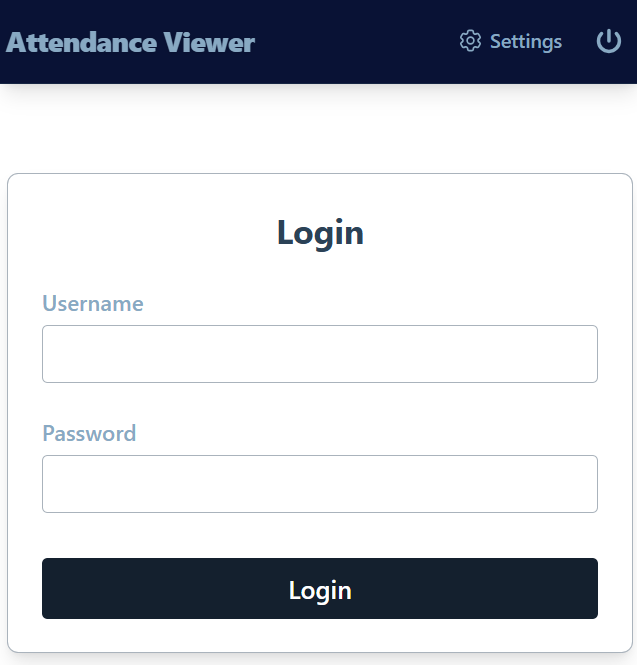
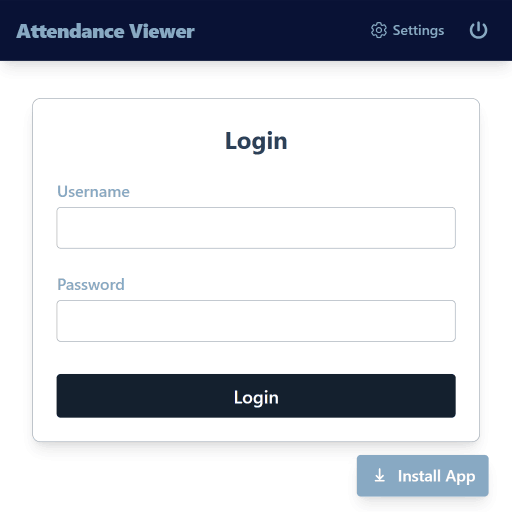
made some fixes

diff --git a/src/app/layoutClient.tsx b/src/app/layoutClient.tsx
@@ -15,6 +15,12 @@ const geistMono = Geist_Mono({
     subsets: ["latin"],
 });
 
+declare global {
+    interface Window {
+        deferredPWAInstallPrompt?: any;
+    }
+}
+
 export default function RootLayoutClient({
     children,
 }: Readonly<{
@@ -43,36 +49,65 @@ export default function RootLayoutClient({
         } else {
             console.warn("[PWA] Service Worker not supported in this browser.");
         }
-        const handler = (e: any) => {
-            console.log("[PWA] beforeinstallprompt event fired", e);
-            e.preventDefault();
-            setDeferredPrompt(e);
+
+        // Check if the event was already captured (either before or after component mounted)
+        if (window.deferredPWAInstallPrompt) {
+            console.log('[PWA] Found existing install prompt on mount');
+            setDeferredPrompt(window.deferredPWAInstallPrompt);
+            setShowInstall(true);
+        }
+
+        // Listen for the custom pwaInstallReady event that our early script fires
+        const handleInstallReady = () => {
+            console.log('[PWA] Install ready event received');
+            setDeferredPrompt(window.deferredPWAInstallPrompt);
             setShowInstall(true);
         };
-        window.addEventListener("beforeinstallprompt", handler);
-        window.addEventListener("appinstalled", () => {
+
+        window.addEventListener('pwaInstallReady', handleInstallReady);
+
+        // Listen for appinstalled event
+        const appInstalledHandler = () => {
             console.log("[PWA] App was installed");
-        });
+            setShowInstall(false);
+        };
+
+        window.addEventListener("appinstalled", appInstalledHandler);
+
         return () => {
-            window.removeEventListener("beforeinstallprompt", handler);
+            window.removeEventListener('pwaInstallReady', handleInstallReady);
+            window.removeEventListener("appinstalled", appInstalledHandler);
         };
     }, []);
 
     const handleInstallClick = async () => {
-        if (deferredPrompt) {
-            deferredPrompt.prompt();
-            const { outcome } = await deferredPrompt.userChoice;
+        const promptEvent = deferredPrompt || window.deferredPWAInstallPrompt;
+        if (promptEvent) {
+            promptEvent.prompt();
+            const { outcome } = await promptEvent.userChoice;
             if (outcome === "accepted") {
                 setShowInstall(false);
             }
             setDeferredPrompt(null);
+            window.deferredPWAInstallPrompt = null;
         }
-    };
-
-    return (
+    }; return (
         <html lang="en">
             <head>
                 <link rel="manifest" href="/manifest.webmanifest" />
+                <script
+                    dangerouslySetInnerHTML={{
+                        __html: `
+                            window.deferredPWAInstallPrompt = null;
+                            window.addEventListener('beforeinstallprompt', function(e) {
+                                console.log('[PWA] beforeinstallprompt event captured by early script');
+                                e.preventDefault();
+                                window.deferredPWAInstallPrompt = e;
+                                window.dispatchEvent(new Event('pwaInstallReady'));
+                            });
+                        `
+                    }}
+                />
             </head>
             <body
                 className={`${geistSans.variable} ${geistMono.variable} antialiased`}
@@ -80,14 +115,14 @@ export default function RootLayoutClient({
                 <Analytics />
                 <Header />
                 {isIOS && (
-                    <div className="fixed bottom-6 right-6 z-50 max-w-xs bg-accent text-white rounded-lg shadow-lg px-5 py-4 flex items-center gap-2 border border-accent/70">
+                    <div className="fixed bottom-4 right-6 z-50 max-w-xs bg-accent text-white rounded-lg shadow-lg px-5 py-4 flex items-center gap-2 border border-accent/70">
                         <svg xmlns="http://www.w3.org/2000/svg" className="h-5 w-5 flex-shrink-0" fill="none" viewBox="0 0 24 24" stroke="currentColor"><path strokeLinecap="round" strokeLinejoin="round" strokeWidth={2} d="M12 4v12m0 0l-4-4m4 4l4-4m-9 6h10" /></svg>
                         <span className="text-sm font-medium">To install this app, tap <span className="font-bold">Share</span> <span className="inline-block align-middle">&#x2191;</span> then <span className="font-bold">Add to Home Screen</span>.</span>
                     </div>
                 )}
                 {!isIOS && showInstall && (
                     <button
-                        className="fixed bottom-6 right-6 z-50 px-6 py-3 rounded-lg shadow-lg font-semibold border border-accent bg-accent text-white hover:bg-accent/90 focus:outline-none focus:ring-2 focus:ring-accent focus:ring-offset-2 transition"
+                        className="fixed bottom-4 right-6 z-50 px-3 py-2 rounded-lg shadow-lg font-semibold border border-accent bg-accent text-white hover:bg-accent/80 focus:outline-none focus:ring-2 focus:ring-accent focus:ring-offset-2 transition"
                         onClick={handleInstallClick}
                         type="button"
                     >
@@ -98,6 +133,7 @@ export default function RootLayoutClient({
                     </button>
                 )}
                 {children}
+                <div className="h-[70px]"></div>
             </body>
         </html>
     );

diff --git a/src/components/settings/SettingsForm.tsx b/src/components/settings/SettingsForm.tsx
@@ -3,6 +3,7 @@
 import { TrashIcon } from "@heroicons/react/24/outline";
 import { useEffect, useState } from "react";
 import Spinner from "../Spinner";
+import { PlusCircleIcon } from "@heroicons/react/16/solid";
 
 export default function SettingsForm() {
   const [quarters, setQuarters] = useState<{ start: string; end: string }[]>([]);
@@ -21,7 +22,7 @@ export default function SettingsForm() {
         if (Array.isArray(parsed)) {
           setQuarters(parsed);
         }
-      } catch {}
+      } catch { }
     }
     setLoading(false);
   }, []);
@@ -182,7 +183,7 @@ export default function SettingsForm() {
                 <span>Skip last quarter end date</span>
               </div>
             )}
-            <hr className="border-t border-secondary/20 my-4" />
+            <hr className="border-t border-secondary/20 mt-4" />
           </div>
         ))}
       </div>
@@ -191,13 +192,13 @@ export default function SettingsForm() {
       <button
         type="button"
         onClick={handleAddQuarter}
-        className="mt-2 px-4 py-2 rounded bg-secondary text-white font-semibold hover:bg-primary transition-colors self-center"
+        className="group px-2 py-1 flex flex-row justify-center items-center gap-1 rounded bg-white text-primary border-2 hover:text-white border-secondary font-semibold hover:bg-secondary transition-colors self-center"
       >
-        Add Next Quarter
+        <PlusCircleIcon className="w-5 h-5 fill-secondary group-hover:fill-white transition-colors" /> Quarter
       </button>
       <button
         type="submit"
-        className="my-4 px-4 py-2 rounded bg-primary text-white font-semibold hover:bg-secondary transition-colors self-center"
+        className="mt-4 px-4 py-2 rounded bg-primary text-white font-semibold hover:bg-secondary transition-colors self-center"
       >
         Save
       </button>

diff --git a/src/app/layout.tsx b/src/app/layout.tsx
@@ -7,9 +7,8 @@ export const metadata: Metadata = {
   description: "A Progressive Web App for viewing GMC attendance records.",
   manifest: "/manifest.webmanifest",
   icons: [
-    { rel: "icon", url: "/logo.ico", type: "image/x-icon", sizes: "48x48" },
-    { rel: "icon", url: "/logo.png", type: "image/png", sizes: "512x512" },
-    { rel: "apple-touch-icon", url: "/logo.png", sizes: "512x512" },
+    { rel: "icon", url: "/logo.png", type: "image/png", sizes: "500x500" },
+    { rel: "apple-touch-icon", url: "/logo.png", sizes: "500x500" },
   ],
   openGraph: {
     title: "GMC Attendance Viewer",
@@ -19,8 +18,8 @@ export const metadata: Metadata = {
     images: [
       {
         url: "/logo.png",
-        width: 512,
-        height: 512,
+        width: 500,
+        height: 500,
         alt: "GMC Attendance Viewer Logo",
       },
     ],
@@ -41,12 +40,15 @@ export const metadata: Metadata = {
   },
 };
 
+// Add viewport settings
+export const viewport = {
+  themeColor: "#2b4257",
+};
+
 export default function RootLayout({
   children,
 }: Readonly<{
   children: React.ReactNode;
 }>) {
-  return (
-    <RootLayoutClient>{children}</RootLayoutClient>
-  );
+  return <RootLayoutClient>{children}</RootLayoutClient>;
 }

diff --git a/src/app/manifest.ts b/src/app/manifest.ts
@@ -8,18 +8,18 @@ export default function manifest(): MetadataRoute.Manifest {
     start_url: '/',
     display: 'standalone',
     background_color: '#f5f5f5',
-    theme_color: '#14202e',
+    theme_color: '#2b4257',
     icons: [
       {
         src: '/logo.png',
-        sizes: '512x512',
+        sizes: '500x500',
         type: 'image/png',
         purpose: 'maskable',
       },
       {
-        src: '/logo.ico',
-        sizes: '48x48',
-        type: 'image/x-icon',
+        src: '/logo-144.png',
+        sizes: '144x144',
+        type: 'image/png',
       },
     ],
     screenshots: [
@@ -28,18 +28,21 @@ export default function manifest(): MetadataRoute.Manifest {
         sizes: '512x512',
         type: 'image/png',
         label: 'Login Screen',
+        form_factor: 'wide',
       },
       {
         src: '/screenshot2.png',
         sizes: '512x512',
         type: 'image/png',
-        label: 'Attendance Records',
+        label: 'Settings',
+        form_factor: 'wide',
       },
       {
         src: '/screenshot3.png',
-        sizes: '512x512',
+        sizes: '1024x768',
         type: 'image/png',
         label: 'Quarterly Attendance',
+        form_factor: 'wide',
       },
     ],
   }

diff --git a/src/app/settings/page.tsx b/src/app/settings/page.tsx
@@ -1,6 +1,7 @@
 'use client';
 
 import SettingsForm from "@/components/settings/SettingsForm";
+import { ArrowUturnLeftIcon } from "@heroicons/react/16/solid";
 
 export default function SettingsPage() {
 
@@ -9,10 +10,10 @@ export default function SettingsPage() {
       {/* Go back button */}
       <div className="flex items-center mb-4">
         <button
-          className="px-4 py-2 rounded bg-secondary text-white font-semibold transition-colors hover:bg-secondary/80"
+          className="px-4 flex flex-row justify-center items-center gap-1 py-2 rounded bg-accent text-white font-semibold transition-colors hover:bg-secondary/80"
           onClick={() => window.history.back()}
         >
-          Go Back
+          <ArrowUturnLeftIcon className="w-5 h-5" /> Back
         </button>
       </div>
         <h1 className="text-2xl text-secondary font-bold mb-4">Settings</h1>

diff --git a/src/app/globals.css b/src/app/globals.css
@@ -1,7 +1,7 @@
 @import "tailwindcss";
 
 button {
-  @apply cursor-pointer rounded font-semibold px-4 py-2 disabled:cursor-not-allowed;
+  @apply cursor-pointer rounded font-semibold disabled:cursor-not-allowed;
 }
 
 @theme inline {
